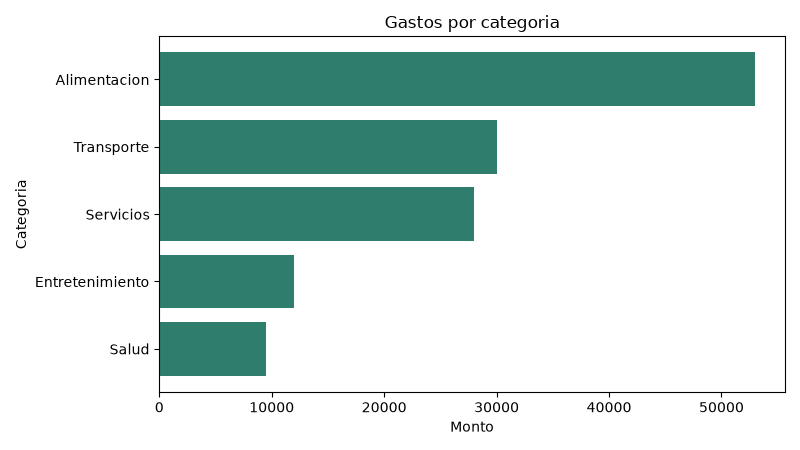
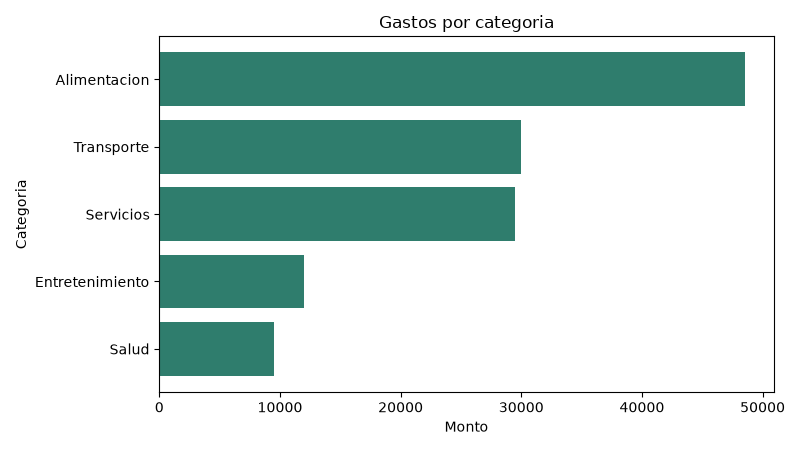
funciones validar campos

diff --git a/app/templates/nuevo_gasto.html b/app/templates/nuevo_gasto.html
@@ -10,32 +10,49 @@
 
 <form class="form-card" method="post">
     <label for="fecha">Fecha</label>
-    <input id="fecha" name="fecha" type="date" required>
+    <input id="fecha" name="fecha" type="date" value="{{ datos.fecha if datos is defined else '' }}" required>
 
     <label for="categoria">Categoria</label>
     <select id="categoria" name="categoria" required>
         <option value="">Selecciona una categoria</option>
-        <option value="Alimentacion">Alimentacion</option>
-        <option value="Transporte">Transporte</option>
-        <option value="Servicios">Servicios</option>
-        <option value="Salud">Salud</option>
-        <option value="Educacion">Educacion</option>
-        <option value="Entretenimiento">Entretenimiento</option>
-        <option value="Otros">Otros</option>
+        <option value="Alimentacion" {% if datos is defined and datos.categoria == "Alimentacion" %}selected{% endif %}>Alimentacion</option>
+        <option value="Transporte" {% if datos is defined and datos.categoria == "Transporte" %}selected{% endif %}>Transporte</option>
+        <option value="Servicios" {% if datos is defined and datos.categoria == "Servicios" %}selected{% endif %}>Servicios</option>
+        <option value="Salud" {% if datos is defined and datos.categoria == "Salud" %}selected{% endif %}>Salud</option>
+        <option value="Educacion" {% if datos is defined and datos.categoria == "Educacion" %}selected{% endif %}>Educacion</option>
+        <option value="Entretenimiento" {% if datos is defined and datos.categoria == "Entretenimiento" %}selected{% endif %}>Entretenimiento</option>
+        <option value="Otros" {% if datos is defined and datos.categoria == "Otros" %}selected{% endif %}>Otros</option>
     </select>
 
     <label for="descripcion">Descripcion</label>
-    <input id="descripcion" name="descripcion" type="text" maxlength="120" required>
+    <input id="descripcion" name="descripcion" type="text" maxlength="120" value="{{ datos.descripcion if datos is defined else '' }}" required>
 
     <label for="monto">Monto</label>
-    <input id="monto" name="monto" type="number" min="0" step="0.01" required>
+    <input id="monto" name="monto" type="number" min="0" step="0.01" value="{{ datos.monto if datos is defined else '' }}" required>
 
     <div class="form-actions">
-        <button class="button button-secondary" type="button">Validar campos</button>
+        <button class="button button-secondary" type="submit" formaction="{{ url_for('main.validar_campos_route') }}">Validar campos</button>
         <button class="button button-secondary" type="button">Revisar monto negativo</button>
         <button class="button" type="submit">Guardar gasto</button>
     </div>
 </form>
+
+{% if errores is defined %}
+<section class="panel message-panel">
+    <div class="panel-header">
+        <h2>Validacion</h2>
+    </div>
+    {% if errores %}
+        <ul>
+            {% for error in errores %}
+                <li>{{ error }}</li>
+            {% endfor %}
+        </ul>
+    {% else %}
+        <p>Funcion de validacion pendiente de implementar.</p>
+    {% endif %}
+</section>
+{% endif %}
 
 <section class="panel message-panel">
     <div class="panel-header">

diff --git a/app/templates/editar_gasto.html b/app/templates/editar_gasto.html
@@ -1,0 +1,38 @@
+{% extends "base.html" %}
+
+{% block title %}Editar gasto | Control de gastos{% endblock %}
+
+{% block content %}
+<section class="page-title">
+    <h1>Editar gasto</h1>
+    <p>Actualiza los datos del movimiento seleccionado.</p>
+</section>
+
+<form class="form-card" method="post">
+    <label for="fecha">Fecha</label>
+    <input id="fecha" name="fecha" type="date" value="{{ gasto.fecha }}" required>
+
+    <label for="categoria">Categoria</label>
+    <select id="categoria" name="categoria" required>
+        <option value="">Selecciona una categoria</option>
+        <option value="Alimentacion" {% if gasto.categoria == "Alimentacion" %}selected{% endif %}>Alimentacion</option>
+        <option value="Transporte" {% if gasto.categoria == "Transporte" %}selected{% endif %}>Transporte</option>
+        <option value="Servicios" {% if gasto.categoria == "Servicios" %}selected{% endif %}>Servicios</option>
+        <option value="Salud" {% if gasto.categoria == "Salud" %}selected{% endif %}>Salud</option>
+        <option value="Educacion" {% if gasto.categoria == "Educacion" %}selected{% endif %}>Educacion</option>
+        <option value="Entretenimiento" {% if gasto.categoria == "Entretenimiento" %}selected{% endif %}>Entretenimiento</option>
+        <option value="Otros" {% if gasto.categoria == "Otros" %}selected{% endif %}>Otros</option>
+    </select>
+
+    <label for="descripcion">Descripcion</label>
+    <input id="descripcion" name="descripcion" type="text" maxlength="120" value="{{ gasto.descripcion }}" required>
+
+    <label for="monto">Monto</label>
+    <input id="monto" name="monto" type="number" min="0" step="0.01" value="{{ gasto.monto }}" required>
+
+    <div class="form-actions">
+        <a class="button button-muted" href="{{ url_for('main.gastos') }}">Cancelar</a>
+        <button class="button" type="submit">Guardar cambios</button>
+    </div>
+</form>
+{% endblock %}

diff --git a/app/templates/gastos.html b/app/templates/gastos.html
@@ -15,26 +15,26 @@
     <div class="panel-header">
         <h2>Filtros y busqueda</h2>
     </div>
-    <form class="filter-form" action="#" method="get">
+    <form class="filter-form" action="{{ url_for('main.filtrar_gastos_route') }}" method="get">
         <div>
             <label for="fecha_inicio">Fecha inicio</label>
-            <input id="fecha_inicio" name="fecha_inicio" type="date">
+            <input id="fecha_inicio" name="fecha_inicio" type="date" value="{{ fecha_inicio or '' }}">
         </div>
         <div>
             <label for="fecha_fin">Fecha fin</label>
-            <input id="fecha_fin" name="fecha_fin" type="date">
+            <input id="fecha_fin" name="fecha_fin" type="date" value="{{ fecha_fin or '' }}">
         </div>
         <div>
             <label for="categoria">Categoria</label>
             <select id="categoria" name="categoria">
                 <option value="">Todas</option>
-                <option value="Alimentacion">Alimentacion</option>
-                <option value="Transporte">Transporte</option>
-                <option value="Servicios">Servicios</option>
-                <option value="Salud">Salud</option>
-                <option value="Educacion">Educacion</option>
-                <option value="Entretenimiento">Entretenimiento</option>
-                <option value="Otros">Otros</option>
+                <option value="Alimentacion" {% if categoria == "Alimentacion" %}selected{% endif %}>Alimentacion</option>
+                <option value="Transporte" {% if categoria == "Transporte" %}selected{% endif %}>Transporte</option>
+                <option value="Servicios" {% if categoria == "Servicios" %}selected{% endif %}>Servicios</option>
+                <option value="Salud" {% if categoria == "Salud" %}selected{% endif %}>Salud</option>
+                <option value="Educacion" {% if categoria == "Educacion" %}selected{% endif %}>Educacion</option>
+                <option value="Entretenimiento" {% if categoria == "Entretenimiento" %}selected{% endif %}>Entretenimiento</option>
+                <option value="Otros" {% if categoria == "Otros" %}selected{% endif %}>Otros</option>
             </select>
         </div>
         <div>
@@ -42,9 +42,9 @@
             <input id="descripcion" name="descripcion" type="search" placeholder="Buscar descripcion">
         </div>
         <div class="filter-actions">
-            <button class="button" type="button">Filtrar</button>
+            <button class="button" type="submit">Filtrar</button>
             <button class="button button-secondary" type="button">Buscar</button>
-            <button class="button button-muted" type="reset">Limpiar</button>
+            <a class="button button-muted" href="{{ url_for('main.gastos') }}">Limpiar</a>
         </div>
     </form>
 </section>
@@ -70,8 +70,8 @@
                     <td>₡{{ "{:,.2f}".format(gasto.monto) }}</td>
                     <td>
                         <div class="table-actions">
-                            <button class="button button-small" type="button">Editar</button>
-                            <button class="button button-small button-danger" type="button">Eliminar</button>
+                            <a class="button button-small" href="{{ url_for('main.editar_gasto', id=gasto.id) }}">Editar</a>
+                            <a class="button button-small button-danger" href="{{ url_for('main.eliminar_gasto_route', id=gasto.id) }}">Eliminar</a>
                         </div>
                     </td>
                 </tr>

diff --git a/app/templates/resumen.html b/app/templates/resumen.html
@@ -32,10 +32,34 @@
         <button class="button button-secondary" type="button">Agregar presupuesto mensual</button>
         <button class="button button-secondary" type="button">Crear mas graficos</button>
         <button class="button button-secondary" type="button">Comparar gastos por mes</button>
-        <button class="button button-secondary" type="button">Mostrar mayor categoria</button>
-        <button class="button button-secondary" type="button">Calcular promedio mensual</button>
+        <a class="button button-secondary" href="{{ url_for('main.mayor_categoria') }}">Mostrar mayor categoria</a>
+        <a class="button button-secondary" href="{{ url_for('main.promedio_mensual') }}">Calcular promedio mensual</a>
     </div>
 </section>
+
+{% if mayor_categoria is defined or promedio_mensual is defined %}
+<section class="panel">
+    <div class="panel-header">
+        <h2>Resultado</h2>
+    </div>
+
+    {% if mayor_categoria is defined %}
+        {% if mayor_categoria %}
+            <p>{{ mayor_categoria }}</p>
+        {% else %}
+            <p>Funcion de mayor categoria pendiente de implementar.</p>
+        {% endif %}
+    {% endif %}
+
+    {% if promedio_mensual is defined %}
+        {% if promedio_mensual %}
+            <p>{{ promedio_mensual }}</p>
+        {% else %}
+            <p>Funcion de promedio mensual pendiente de implementar.</p>
+        {% endif %}
+    {% endif %}
+</section>
+{% endif %}
 
 <section class="summary-layout">
     <article class="panel">

diff --git a/app/services.py b/app/services.py
@@ -1,7 +1,7 @@
 from pathlib import Path
 from uuid import uuid4
 
-##dates
+######PARA FECHAS
 from datetime import datetime 
 
 import matplotlib
@@ -130,41 +130,83 @@ def filtrar_gastos(gastos, fecha_inicio=None, fecha_fin=None, categoria=None):
         gastos = gastos[gastos["categoria"] == categoria]
 
     return gastos
-##################################################################
+################################################################## SANDY
 
+def validar_campos(fecha, categoria, descripcion, monto):
+    errores = []
 
-# def validar_campos(fecha, categoria, descripcion, monto):   
-#     errores = []
-
-#     if fecha.strip() == "" or fecha == False:
-#         errores.append("Fecha no se puede dejar vacío")
+    try:
+        datetime.strptime(fecha, '%y-%m-%d')
+    except (ValueError, TypeError):
+        errores.append("Introducir la fecha en formato AAAA-MM-DD.")
     
-#     else: ##if the format is incorrect
-#         print ("Favor escribirlo como ")
+    if categoria.strip() == "":
+        errores.append("Favor especificar la categoría.")
     
-#     categorias = categoria 
-#     if categoria.strip() == "":
-        
-
-
-#     return errores
-# errores = validar_campos
-# print(f"{errores}")
-
-
-# def mayor_gasto(gastos):
+    if descripcion.strip() == "":
+        errores.append("Debe de añadir una descripción.")
     
-#     df = pd.read_csv(DATA_FILE)
+    try: 
+        monto = float(monto)
+        if monto <= 0:
+            errores.append("Monto inválido, debe ser mayor a 0.")
     
-   
-# mayor_gasto()
-
-# #     return categoria
-
-def promedio_mensual(gastos):
+    except (ValueError, TypeError):
+        errores.append("El monto debe ser en números válidos.")
     
-    df = pd.read_csv(DATA_FILE)
+    return errores
 
-    promedio = df
 
-    return promedio
+def obtener_mayor_categoria(gastos):
+    if gastos.empty: 
+        return None
+    
+    resultado = []
+    
+    by_categoria = gastos.groupby('categoria')['monto'].sum()
+    top3 = by_categoria.nlargest(3)
+    
+    print("TOP 3 CATEGORÍAS DE GASTOS")
+
+    for categoria, monto in top3.items():
+        resultado.append(f"{categoria}: ₵{monto:.2f}")
+
+    
+    return resultado
+
+    
+def calcular_promedio_mensual(gastos):
+    gastos = cargar_gastos()
+
+    if gastos.empty: 
+        return None
+
+    gastos  = gastos.groupby['fecha']('%m').mean()
+    
+    return gastos 
+    
+##def cargar_gastos():
+    if not DATA_FILE.exists():
+        DATA_FILE.parent.mkdir(parents=True, exist_ok=True)
+        pd.DataFrame(columns=COLUMNAS).to_csv(DATA_FILE, index=False)
+
+    gastos = pd.read_csv(DATA_FILE)
+
+    if gastos.empty:
+        return pd.DataFrame(columns=COLUMNAS)
+
+    gastos["fecha"] = pd.to_datetime(gastos["fecha"]).dt.date
+    gastos["monto"] = pd.to_numeric(gastos["monto"], errors="coerce").fillna(0)
+    return gastos
+
+
+# def calcular_promedio_mensual(gastos):
+#     if gastos.empty:
+#         return None
+
+#     gastos["fecha"] = pd.to_datetime(gastos["fecha"])
+#     gastos["mes"] = gastos["fecha"].dt.to_period("M")
+
+#     promedio_por_mes = gastos.groupby("mes", as_index=False)["monto"].mean()
+
+#     return promedio_por_mes.to_dict("records")

diff --git a/app/routes.py b/app/routes.py
@@ -2,11 +2,14 @@ from flask import Blueprint, redirect, render_template, request, url_for
 
 from app.services import (
     agregar_gasto,
+    calcular_promedio_mensual,
     cargar_gastos,
     crear_grafico_categorias,
     obtener_resumen,
+    obtener_mayor_categoria,
     eliminar_gasto,
-    actualizar_gasto
+    actualizar_gasto,
+    validar_campos,
     
 )
 
@@ -43,6 +46,21 @@ def nuevo_gasto():
     return render_template("nuevo_gasto.html")
 
 
[email redacted]("/gastos/validar", methods=["POST"])
+def validar_campos_route():
+    errores = validar_campos(
+        fecha=request.form["fecha"],
+        categoria=request.form["categoria"],
+        descripcion=request.form["descripcion"],
+        monto=request.form["monto"],
+    )
+    return render_template(
+        "nuevo_gasto.html",
+        errores=errores,
+        datos=request.form,
+    )
+
+
 @main.route("/resumen")
 def resumen():
     gastos = cargar_gastos()
@@ -54,6 +72,40 @@ def resumen():
         resumen=resumen_data,
         categorias=categorias,
         grafico=grafico,
+    )
+
+
[email redacted]("/resumen/mayor-categoria")
+def mayor_categoria():
+    gastos = cargar_gastos()
+    resumen_data = obtener_resumen(gastos)
+    grafico = crear_grafico_categorias(gastos)
+    categorias = resumen_data["por_categoria"].to_dict("records")
+    mayor_categoria_data = obtener_mayor_categoria(gastos)
+
+    return render_template(
+        "resumen.html",
+        resumen=resumen_data,
+        categorias=categorias,
+        grafico=grafico,
+        mayor_categoria=mayor_categoria_data,
+    )
+
+
[email redacted]("/resumen/promedio-mensual")
+def promedio_mensual():
+    gastos = cargar_gastos()
+    resumen_data = obtener_resumen(gastos)
+    grafico = crear_grafico_categorias(gastos)
+    categorias = resumen_data["por_categoria"].to_dict("records")
+    promedio_mensual_data = calcular_promedio_mensual(gastos)
+
+    return render_template(
+        "resumen.html",
+        resumen=resumen_data,
+        categorias=categorias,
+        grafico=grafico,
+        promedio_mensual=promedio_mensual_data,
     )
 
 #######################################JEREMI